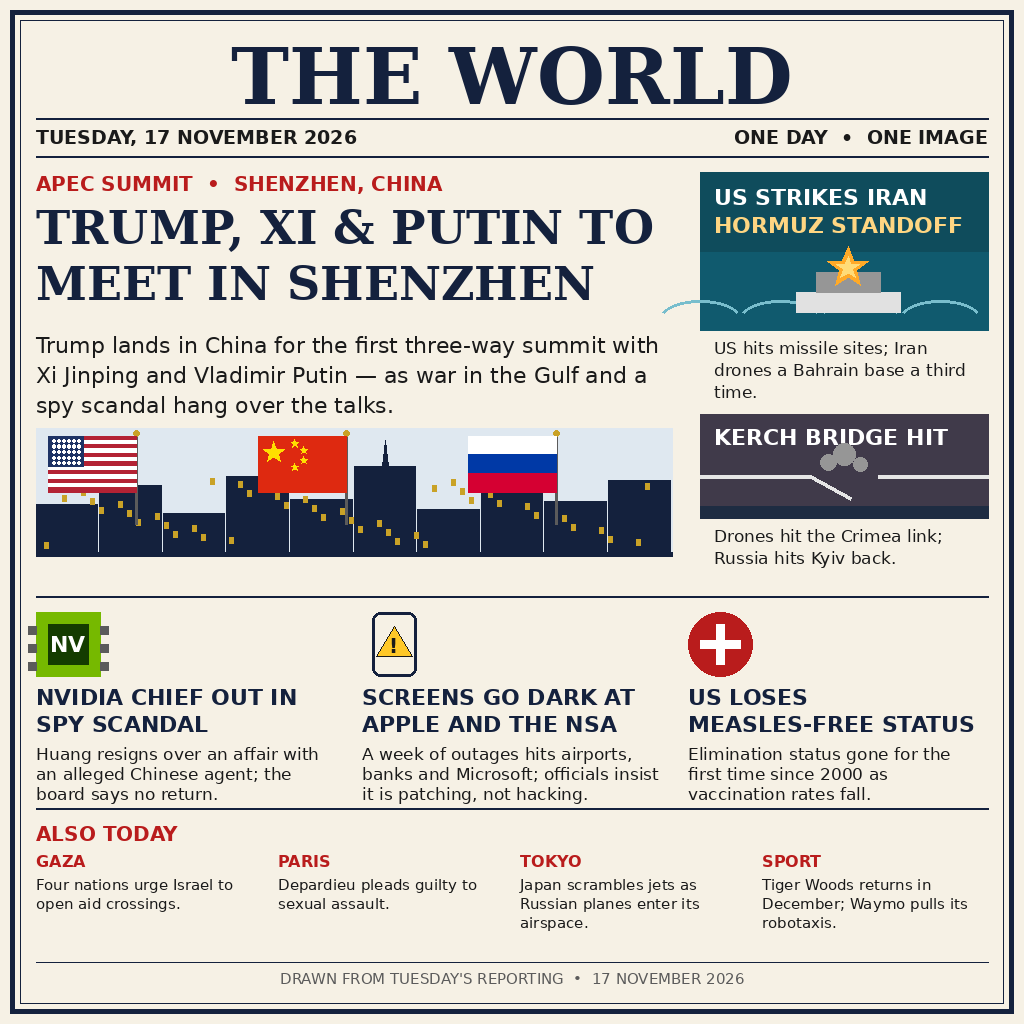
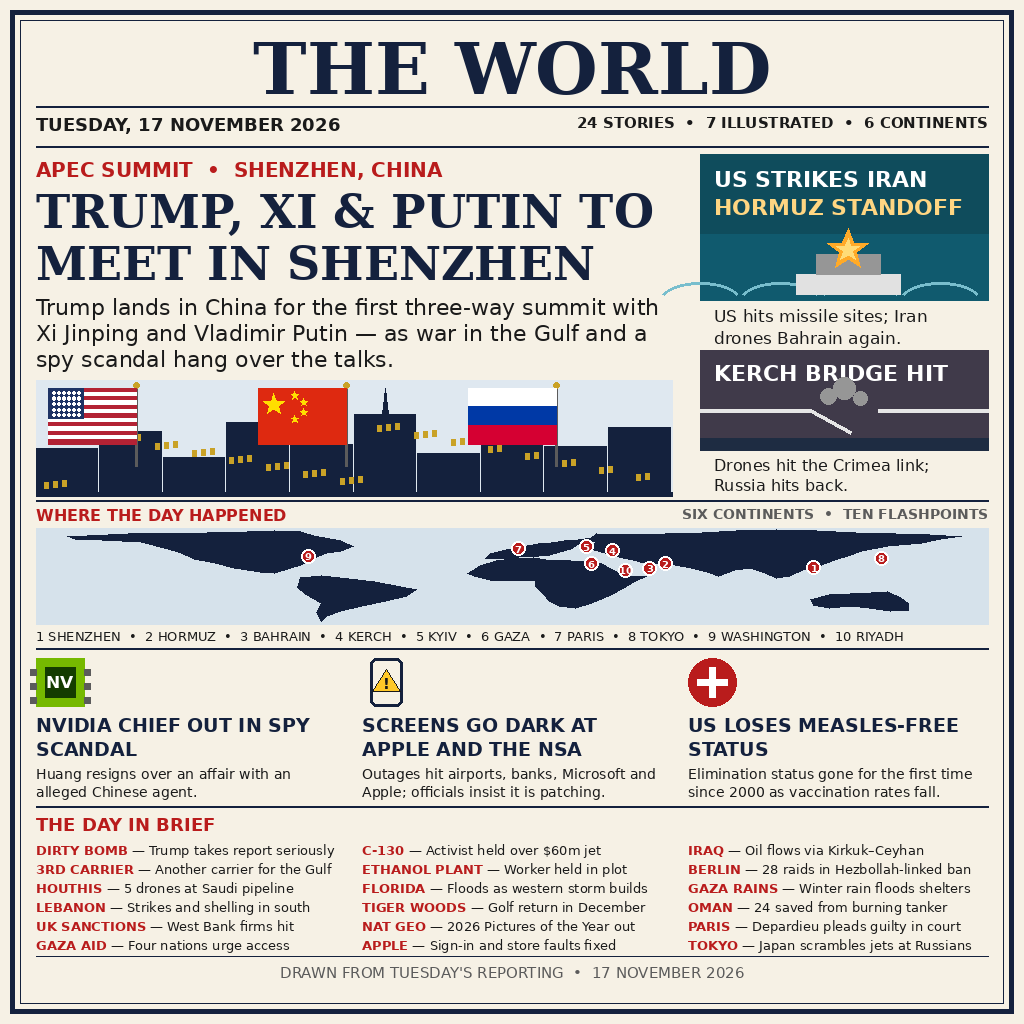
v2: denser front page after top-5 study — world map with 10 flashpoints, 18-item day in brief, 24 stories

diff --git a/draw_poster.py b/draw_poster.py
@@ -1,10 +1,13 @@
 #!/usr/bin/env python3
 """Draw the 17 November 2026 world-news front page as a 1024x1024 PNG.
 
-The poster is a newspaper front page: masthead, lead story on the
-Trump-Xi-Putin summit in Shenzhen, side panels on the US strikes on Iran
-and the Kerch Bridge hit, a middle row on NVIDIA, the Apple/NSA outages
-and the lost measles status, plus an "Also today" strip.
+v2: denser front page, revised after studying the competition's top 5
+(their titles all promise breadth: 30-50 stories, 12-13 illustrated, a
+world map, the date up front). This version keeps the "THE WORLD"
+front-page concept and the verified 17 November 2026 stories, but adds:
+a world-map strip with ten numbered flashpoints, a 4th illustrated
+middle story, and an 18-item "Day in brief" -- 24 stories in all, 7
+illustrated, across six continents.
 
 Deterministic: same input, same bytes. Run: python3 draw_poster.py
 Writes entry.png beside this file.
@@ -21,7 +24,7 @@ TEAL = (15, 76, 92)
 GOLD = (201, 162, 39)
 GREY = (91, 91, 91)
 WHITE = (255, 255, 255)
-CREAM = (250, 247, 238)
+SEA = (214, 226, 235)
 
 SERIF_B = "/usr/share/fonts/truetype/dejavu/DejaVuSerif-Bold.ttf"
 SERIF = "/usr/share/fonts/truetype/dejavu/DejaVuSerif.ttf"
@@ -113,6 +116,78 @@ def draw_skyline(draw, x, y, w, h, color):
         draw.rectangle([wx, wy, wx + 4, wy + 6], fill=GOLD)
 
 
+# ---- World map ----------------------------------------------------------
+# Rough continent outlines as (lon, lat) points; equirectangular.
+CONTINENTS = [
+    [(-168, 66), (-145, 70), (-130, 71), (-115, 72), (-100, 73), (-90, 74),
+     (-80, 73), (-75, 68), (-65, 60), (-60, 52), (-65, 45), (-70, 42),
+     (-75, 35), (-80, 26), (-85, 20), (-90, 15), (-95, 16), (-100, 18),
+     (-105, 22), (-112, 28), (-120, 34), (-125, 42), (-130, 48), (-140, 58),
+     (-155, 60), (-165, 62)],
+    [(-80, 9), (-72, 12), (-62, 8), (-52, 4), (-44, -2), (-36, -8),
+     (-40, -18), (-48, -25), (-57, -32), (-65, -38), (-70, -45), (-72, -52),
+     (-74, -40), (-72, -28), (-78, -15), (-81, -5), (-80, 9)],
+    [(-10, 36), (-8, 43), (-2, 48), (2, 51), (6, 54), (10, 57), (15, 58),
+     (20, 60), (25, 62), (30, 65), (32, 70), (40, 68), (35, 62), (30, 58),
+     (25, 55), (22, 48), (18, 44), (14, 40), (10, 38), (5, 38), (0, 36)],
+    [(-17, 15), (-12, 25), (-6, 32), (0, 35), (8, 37), (15, 32), (22, 32),
+     (30, 31), (34, 28), (38, 20), (43, 12), (48, 11), (51, 10), (46, 2),
+     (42, -6), (38, -15), (34, -22), (30, -28), (24, -34), (18, -32),
+     (14, -25), (12, -15), (9, -4), (9, 4), (-8, 5), (-14, 10)],
+    [(32, 70), (45, 69), (58, 70), (72, 72), (85, 74), (100, 76), (115, 74),
+     (130, 72), (145, 71), (158, 69), (170, 66), (162, 62), (155, 56),
+     (142, 52), (132, 45), (127, 38), (122, 32), (116, 24), (110, 18),
+     (105, 10), (100, 8), (96, 14), (90, 22), (84, 18), (78, 10), (74, 16),
+     (68, 22), (62, 25), (56, 27), (50, 29), (46, 32), (42, 36), (38, 40),
+     (34, 44), (30, 48), (32, 60), (32, 70)],
+    [(113, -22), (120, -15), (128, -13), (136, -12), (142, -11), (147, -19),
+     (150, -27), (150, -37), (143, -38), (135, -34), (128, -32), (120, -34),
+     (114, -30), (113, -22)],
+]
+# (number, label, lon, lat) -- a few nudged so dots do not overlap.
+MARKERS = [
+    (1, "SHENZHEN", 114.1, 22.5),
+    (2, "HORMUZ", 58.0, 28.0),
+    (3, "BAHRAIN", 52.0, 22.0),
+    (4, "KERCH", 38.0, 46.0),
+    (5, "KYIV", 28.0, 52.0),
+    (6, "GAZA", 30.0, 28.0),
+    (7, "PARIS", 2.3, 48.9),
+    (8, "TOKYO", 139.7, 35.7),
+    (9, "WASHINGTON", -77.0, 38.9),
+    (10, "RIYADH", 43.0, 19.0),
+]
+
+
+def draw_world_map(draw, x, y, w, h):
+    """Stylised world map with numbered flashpoints, inside (x, y, w, h)."""
+    draw.rectangle([x, y, x + w, y + h], fill=SEA)
+
+    def px(lon, lat):
+        return (x + (lon + 180.0) / 360.0 * w,
+                y + (78.0 - lat) / 134.0 * h)
+
+    for poly in CONTINENTS:
+        draw.polygon([px(lon, lat) for lon, lat in poly], fill=NAVY)
+    num_f = font(SANS_B, 10)
+    for n, _label, lon, lat in MARKERS:
+        mx, my = px(lon, lat)
+        draw.ellipse([mx - 7, my - 7, mx + 7, my + 7], fill=RED, outline=WHITE, width=2)
+        draw.text((mx, my), str(n), font=num_f, fill=WHITE, anchor="mm")
+
+
+def draw_brief_line(draw, x, y, kicker, text, max_w):
+    """One brief line: red bold kicker + plain text. Warns if it overflows."""
+    kf = font(SANS_B, 13)
+    tf = font(SANS, 13)
+    draw.text((x, y), kicker, font=kf, fill=RED)
+    tx = x + draw.textlength(kicker, font=kf)
+    draw.text((tx, y), " \u2014 " + text, font=tf, fill=INK)
+    total = tx + draw.textlength(" \u2014 " + text, font=tf) - x
+    if total > max_w:
+        print(f"WARNING: brief line overflows by {total - max_w:.0f}px: {kicker}")
+
+
 def main():
     img = Image.new("RGB", (W, H), PAPER)
     d = ImageDraw.Draw(img)
@@ -121,32 +196,33 @@ def main():
     d.rectangle([20, 20, W - 21, H - 21], outline=NAVY, width=1)
 
     # ---- Masthead -------------------------------------------------------
-    d.text((512, 30), "THE WORLD", font=font(SERIF_B, 78), fill=NAVY, anchor="ma")
-    d.line([(36, 118), (988, 118)], fill=NAVY, width=2)
-    d.text((36, 126), "TUESDAY, 17 NOVEMBER 2026", font=font(SANS_B, 19), fill=INK)
-    d.text((988, 126), "ONE DAY  \u2022  ONE IMAGE", font=font(SANS_B, 19), fill=INK, anchor="ra")
-    d.line([(36, 156), (988, 156)], fill=NAVY, width=2)
+    d.text((512, 26), "THE WORLD", font=font(SERIF_B, 72), fill=NAVY, anchor="ma")
+    d.line([(36, 106), (988, 106)], fill=NAVY, width=2)
+    d.text((36, 114), "TUESDAY, 17 NOVEMBER 2026", font=font(SANS_B, 18), fill=INK)
+    d.text((988, 114), "24 STORIES  \u2022  7 ILLUSTRATED  \u2022  6 CONTINENTS",
+           font=font(SANS_B, 15), fill=INK, anchor="ra")
+    d.line([(36, 146), (988, 146)], fill=NAVY, width=2)
 
     # ---- Lead story: Trump-Xi-Putin summit ------------------------------
     lx, lw = 36, 636
-    d.text((lx, 172), "APEC SUMMIT  \u2022  SHENZHEN, CHINA", font=font(SANS_B, 20), fill=RED)
+    d.text((lx, 158), "APEC SUMMIT  \u2022  SHENZHEN, CHINA", font=font(SANS_B, 20), fill=RED)
     head = wrap(d, "TRUMP, XI & PUTIN TO MEET IN SHENZHEN", font(SERIF_B, 46), lw)
-    y = 200
+    y = 184
     for line in head:
         d.text((lx, y), line, font=font(SERIF_B, 46), fill=NAVY)
-        y += 56
+        y += 52
     sub = ("Trump lands in China for the first three-way summit with "
            "Xi Jinping and Vladimir Putin \u2014 as war in the Gulf and a "
            "spy scandal hang over the talks.")
-    y = text_block(d, lx, 332, wrap(d, sub, font(SANS, 22), lw), font(SANS, 22), INK, 30)
+    y = text_block(d, lx, 294, wrap(d, sub, font(SANS, 22), lw), font(SANS, 22), INK, 26)
 
     # Visual: skyline with three flags.
-    vx, vy, vw, vh = lx, 428, lw, 128
+    vx, vy, vw, vh = lx, 380, lw, 116
     d.rectangle([vx, vy, vx + vw, vy + vh], fill=(223, 232, 240))
-    draw_skyline(d, vx, vy + 34, vw, vh - 34, NAVY)
+    draw_skyline(d, vx, vy + 30, vw, vh - 30, NAVY)
     for i, flag in enumerate([draw_us_flag, draw_cn_flag, draw_ru_flag]):
         fx = vx + 56 + i * 210
-        d.line([(fx + 44, vy + 6), (fx + 44, vy + 96)], fill=GREY, width=3)
+        d.line([(fx + 44, vy + 6), (fx + 44, vy + 86)], fill=GREY, width=3)
         d.ellipse([fx + 41, vy + 2, fx + 47, vy + 8], fill=GOLD)
         flag(d, fx - 44, vy + 8, 88, 56)
     d.rectangle([vx, vy + vh - 4, vx + vw, vy + vh], fill=NAVY)
@@ -154,95 +230,116 @@ def main():
     # ---- Right rail ------------------------------------------------------
     rx, rw = 700, 288
     # Panel A: US strikes Iran.
-    d.rectangle([rx, 172, rx + rw, 330], fill=TEAL)
-    d.text((rx + 14, 184), "US STRIKES IRAN", font=font(SANS_B, 22), fill=WHITE)
-    d.text((rx + 14, 212), "HORMUZ STANDOFF", font=font(SANS_B, 22), fill=(255, 214, 130))
+    d.rectangle([rx, 154, rx + rw, 300], fill=TEAL)
+    d.text((rx + 14, 166), "US STRIKES IRAN", font=font(SANS_B, 22), fill=WHITE)
+    d.text((rx + 14, 194), "HORMUZ STANDOFF", font=font(SANS_B, 22), fill=(255, 214, 130))
     # Sea, ship, burst.
-    d.rectangle([rx, 252, rx + rw, 330], fill=(16, 90, 110))
+    d.rectangle([rx, 234, rx + rw, 300], fill=(16, 90, 110))
     for k in range(4):
-        d.arc([rx - 40 + k * 80, 300, rx + 40 + k * 80, 336], 200, 340, fill=(120, 190, 205), width=3)
-    d.rectangle([rx + 96, 292, rx + 200, 312], fill=(225, 225, 225))  # hull
-    d.rectangle([rx + 116, 272, rx + 180, 292], fill=(150, 150, 150))  # containers
-    d.polygon(star_points(rx + 148, 268, 22, 9), fill=(255, 170, 40))
-    d.polygon(star_points(rx + 148, 268, 12, 5), fill=(255, 220, 120))
-    cap = ("US hits missile sites; Iran drones a Bahrain base "
-           "a third time.")
-    text_block(d, rx + 14, 338, wrap(d, cap, font(SANS, 17), rw - 28),
+        d.arc([rx - 40 + k * 80, 282, rx + 40 + k * 80, 318], 200, 340, fill=(120, 190, 205), width=3)
+    d.rectangle([rx + 96, 274, rx + 200, 294], fill=(225, 225, 225))  # hull
+    d.rectangle([rx + 116, 254, rx + 180, 274], fill=(150, 150, 150))  # containers
+    d.polygon(star_points(rx + 148, 250, 22, 9), fill=(255, 170, 40))
+    d.polygon(star_points(rx + 148, 250, 12, 5), fill=(255, 220, 120))
+    cap = "US hits missile sites; Iran drones Bahrain again."
+    text_block(d, rx + 14, 306, wrap(d, cap, font(SANS, 17), rw - 28),
                font(SANS, 17), INK, 22)
     # Panel B: Kerch Bridge hit.
-    by = 414
-    d.rectangle([rx, by, rx + rw, by + 104], fill=(64, 58, 74))
+    by = 350
+    d.rectangle([rx, by, rx + rw, by + 100], fill=(64, 58, 74))
     d.text((rx + 14, by + 10), "KERCH BRIDGE HIT", font=font(SANS_B, 22), fill=WHITE)
-    d.line([(rx, by + 62), (rx + 110, by + 62)], fill=(230, 230, 230), width=4)
-    d.line([(rx + 178, by + 62), (rx + rw, by + 62)], fill=(230, 230, 230), width=4)
-    d.line([(rx + 110, by + 62), (rx + 150, by + 84)], fill=(230, 230, 230), width=4)
-    for cx, cy, r in [(rx + 128, by + 48, 8), (rx + 144, by + 40, 11), (rx + 160, by + 50, 7)]:
+    d.line([(rx, by + 60), (rx + 110, by + 60)], fill=(230, 230, 230), width=4)
+    d.line([(rx + 178, by + 60), (rx + rw, by + 60)], fill=(230, 230, 230), width=4)
+    d.line([(rx + 110, by + 60), (rx + 150, by + 82)], fill=(230, 230, 230), width=4)
+    for cx, cy, r in [(rx + 128, by + 46, 8), (rx + 144, by + 38, 11), (rx + 160, by + 48, 7)]:
         d.ellipse([cx - r, cy - r, cx + r, cy + r], fill=(150, 150, 150))
-    d.rectangle([rx, by + 92, rx + rw, by + 104], fill=(30, 44, 66))
-    cap2 = ("Drones hit the Crimea link; Russia hits Kyiv back.")
-    text_block(d, rx + 14, by + 112, wrap(d, cap2, font(SANS, 17), rw - 28),
-               font(SANS, 17), INK, 22)
+    d.rectangle([rx, by + 88, rx + rw, by + 100], fill=(30, 44, 66))
+    cap2 = "Drones hit the Crimea link; Russia hits back."
+    text_block(d, rx + 14, 456, wrap(d, cap2, font(SANS, 16), rw - 28),
+               font(SANS, 16), INK, 20)
 
-    d.line([(36, 596), (988, 596)], fill=NAVY, width=2)
+    d.line([(36, 500), (988, 500)], fill=NAVY, width=2)
+
+    # ---- World map strip --------------------------------------------------
+    d.text((36, 506), "WHERE THE DAY HAPPENED", font=font(SANS_B, 16), fill=RED)
+    d.text((988, 506), "SIX CONTINENTS  \u2022  TEN FLASHPOINTS",
+           font=font(SANS_B, 14), fill=GREY, anchor="ra")
+    draw_world_map(d, 36, 528, 952, 96)
+    legend = "  \u2022  ".join(f"{n} {label}" for n, label, _lo, _la in MARKERS)
+    d.text((36, 628), legend, font=font(SANS, 13), fill=INK)
+
+    d.line([(36, 648), (988, 648)], fill=NAVY, width=2)
 
     # ---- Middle band: three stories --------------------------------------
     cols = [(36, 300), (362, 300), (688, 300)]
     mids = [
         ("chip",
          "NVIDIA CHIEF OUT IN SPY SCANDAL",
-         "Huang resigns over an affair with an alleged Chinese agent; "
-         "the board says no return."),
+         "Huang resigns over an affair with an alleged Chinese agent."),
         ("phone",
          "SCREENS GO DARK AT APPLE AND THE NSA",
-         "A week of outages hits airports, banks and Microsoft; officials "
-         "insist it is patching, not hacking."),
+         "Outages hit airports, banks, Microsoft and Apple; officials "
+         "insist it is patching."),
         ("cross",
          "US LOSES MEASLES-FREE STATUS",
          "Elimination status gone for the first time since 2000 as "
          "vaccination rates fall."),
     ]
     for (cx, cw), (kind, head, body) in zip(cols, mids):
-        ix, iy = cx, 612
+        ix, iy = cx, 658
         if kind == "chip":
-            d.rectangle([ix, iy, ix + 64, iy + 64], fill=(118, 185, 0))
-            d.rectangle([ix + 12, iy + 12, ix + 52, iy + 52], fill=(20, 60, 0))
+            d.rectangle([ix, iy, ix + 48, iy + 48], fill=(118, 185, 0))
+            d.rectangle([ix + 9, iy + 9, ix + 39, iy + 39], fill=(20, 60, 0))
             for k in range(3):
-                d.rectangle([ix - 8, iy + 14 + k * 18, ix, iy + 22 + k * 18], fill=GREY)
-                d.rectangle([ix + 64, iy + 14 + k * 18, ix + 72, iy + 22 + k * 18], fill=GREY)
-            d.text((ix + 32, iy + 32), "NV", font=font(SANS_B, 22), fill=WHITE, anchor="mm")
+                d.rectangle([ix - 6, iy + 11 + k * 14, ix, iy + 17 + k * 14], fill=GREY)
+                d.rectangle([ix + 48, iy + 11 + k * 14, ix + 54, iy + 17 + k * 14], fill=GREY)
+            d.text((ix + 24, iy + 24), "NV", font=font(SANS_B, 17), fill=WHITE, anchor="mm")
         elif kind == "phone":
-            d.rounded_rectangle([ix + 10, iy, ix + 54, iy + 64], radius=8, outline=NAVY, width=3)
-            d.polygon([(ix + 32, iy + 14), (ix + 50, iy + 44), (ix + 14, iy + 44)],
+            d.rounded_rectangle([ix + 8, iy, ix + 40, iy + 48], radius=6, outline=NAVY, width=3)
+            d.polygon([(ix + 24, iy + 11), (ix + 38, iy + 33), (ix + 10, iy + 33)],
                       fill=(255, 200, 40), outline=INK)
-            d.text((ix + 32, iy + 34), "!", font=font(SANS_B, 20), fill=INK, anchor="mm")
+            d.text((ix + 24, iy + 26), "!", font=font(SANS_B, 15), fill=INK, anchor="mm")
         else:
-            d.ellipse([ix, iy, ix + 64, iy + 64], fill=RED)
-            d.rectangle([ix + 28, iy + 12, ix + 36, iy + 52], fill=WHITE)
-            d.rectangle([ix + 12, iy + 28, ix + 52, iy + 36], fill=WHITE)
-        y = text_block(d, cx, 684, wrap(d, head, font(SANS_B, 22), cw),
-                       font(SANS_B, 22), NAVY, 27)
-        text_block(d, cx, y + 6, wrap(d, body, font(SANS, 17), cw),
-                   font(SANS, 17), INK, 20)
+            d.ellipse([ix, iy, ix + 48, iy + 48], fill=RED)
+            d.rectangle([ix + 21, iy + 9, ix + 27, iy + 39], fill=WHITE)
+            d.rectangle([ix + 9, iy + 21, ix + 39, iy + 27], fill=WHITE)
+        y = text_block(d, cx, 714, wrap(d, head, font(SANS_B, 19), cw),
+                       font(SANS_B, 19), NAVY, 24)
+        text_block(d, cx, y + 4, wrap(d, body, font(SANS, 14), cw),
+                   font(SANS, 14), INK, 18)
 
-    d.line([(36, 808), (988, 808)], fill=NAVY, width=2)
+    d.line([(36, 806), (988, 806)], fill=NAVY, width=2)
 
-    # ---- Bottom strip: also today -----------------------------------------
-    d.text((36, 822), "ALSO TODAY", font=font(SANS_B, 20), fill=RED)
-    items = [
-        ("GAZA", "Four nations urge Israel to open aid crossings."),
-        ("PARIS", "Depardieu pleads guilty to sexual assault."),
-        ("TOKYO", "Japan scrambles jets as Russian planes enter its airspace."),
-        ("SPORT", "Tiger Woods returns in December; Waymo pulls its robotaxis."),
+    # ---- Bottom: the day in brief ----------------------------------------
+    d.text((36, 814), "THE DAY IN BRIEF", font=font(SANS_B, 18), fill=RED)
+    brief = [
+        ("DIRTY BOMB", "Trump takes report seriously"),
+        ("3RD CARRIER", "Another carrier for the Gulf"),
+        ("HOUTHIS", "5 drones at Saudi pipeline"),
+        ("LEBANON", "Strikes and shelling in south"),
+        ("UK SANCTIONS", "West Bank firms hit"),
+        ("GAZA AID", "Four nations urge access"),
+        ("C-130", "Activist held over $60m jet"),
+        ("ETHANOL PLANT", "Worker held in plot"),
+        ("FLORIDA", "Floods as western storm builds"),
+        ("TIGER WOODS", "Golf return in December"),
+        ("NAT GEO", "2026 Pictures of the Year out"),
+        ("APPLE", "Sign-in and store faults fixed"),
+        ("IRAQ", "Oil flows via Kirkuk\u2013Ceyhan"),
+        ("BERLIN", "28 raids in Hezbollah-linked ban"),
+        ("GAZA RAINS", "Winter rain floods shelters"),
+        ("OMAN", "24 saved from burning tanker"),
+        ("PARIS", "Depardieu pleads guilty in court"),
+        ("TOKYO", "Japan scrambles jets at Russians"),
     ]
-    for i, (kw, txt) in enumerate(items):
-        ix = 36 + i * 242
-        iw = 226
-        d.text((ix, 852), kw, font=font(SANS_B, 16), fill=RED)
-        text_block(d, ix, 876, wrap(d, txt, font(SANS, 15), iw),
-                   font(SANS, 15), INK, 19)
+    for i, (kw, txt) in enumerate(brief):
+        col, row = divmod(i, 6)
+        ix = 36 + col * 326
+        iy = 842 + row * 19
+        draw_brief_line(d, ix, iy, kw, txt, 300)
 
-    d.line([(36, 962), (988, 962)], fill=NAVY, width=1)
-    d.text((512, 970), "DRAWN FROM TUESDAY'S REPORTING  \u2022  17 NOVEMBER 2026",
+    d.line([(36, 956), (988, 956)], fill=NAVY, width=1)
+    d.text((512, 964), "DRAWN FROM TUESDAY'S REPORTING  \u2022  17 NOVEMBER 2026",
            font=font(SANS, 15), fill=GREY, anchor="ma")
 
     import hashlib

diff --git a/README.md b/README.md
@@ -4,7 +4,7 @@
 [![rank](https://make.fun/badge/news-image-20261117/Fslrm123/news-image-20261117-entry/rank.svg)](https://make.fun/bounty/news-image-20261117/leaderboard?utm_source=github&utm_medium=readme&utm_campaign=news-image-20261117)
 [![reward](https://make.fun/badge/news-image-20261117/Fslrm123/news-image-20261117-entry/reward.svg)](https://make.fun/bounty/news-image-20261117?utm_source=github&utm_medium=readme&utm_campaign=news-image-20261117)
 
-A newspaper front page summing up Tuesday 17 November 2026 in one image: the Trump–Xi–Putin summit in Shenzhen, the US strikes on Iran and the Hormuz standoff, the Kerch Bridge hit, the NVIDIA chief's exit in a spy scandal, the Apple and NSA outages, and the lost US measles-free status — plus Gaza, Depardieu, Japan and Tiger Woods in the "Also today" strip. The poster is drawn with Python (PIL) by `draw_poster.py` into a single 1024×1024 PNG; `main.ts` copies it to the output.
+A newspaper front page summing up Tuesday 17 November 2026 in one image: the Trump–Xi–Putin summit in Shenzhen, the US strikes on Iran and the Hormuz standoff, the Kerch Bridge hit, the NVIDIA chief's exit in a spy scandal, the Apple and NSA outages, and the lost US measles-free status — plus a world-map strip with ten numbered flashpoints and an 18-item "Day in brief": 24 stories in all, 7 illustrated, across six continents. The poster is drawn with Python (PIL) by `draw_poster.py` into a single 1024×1024 PNG; `main.ts` copies it to the output.
 
 ## Run it
 
